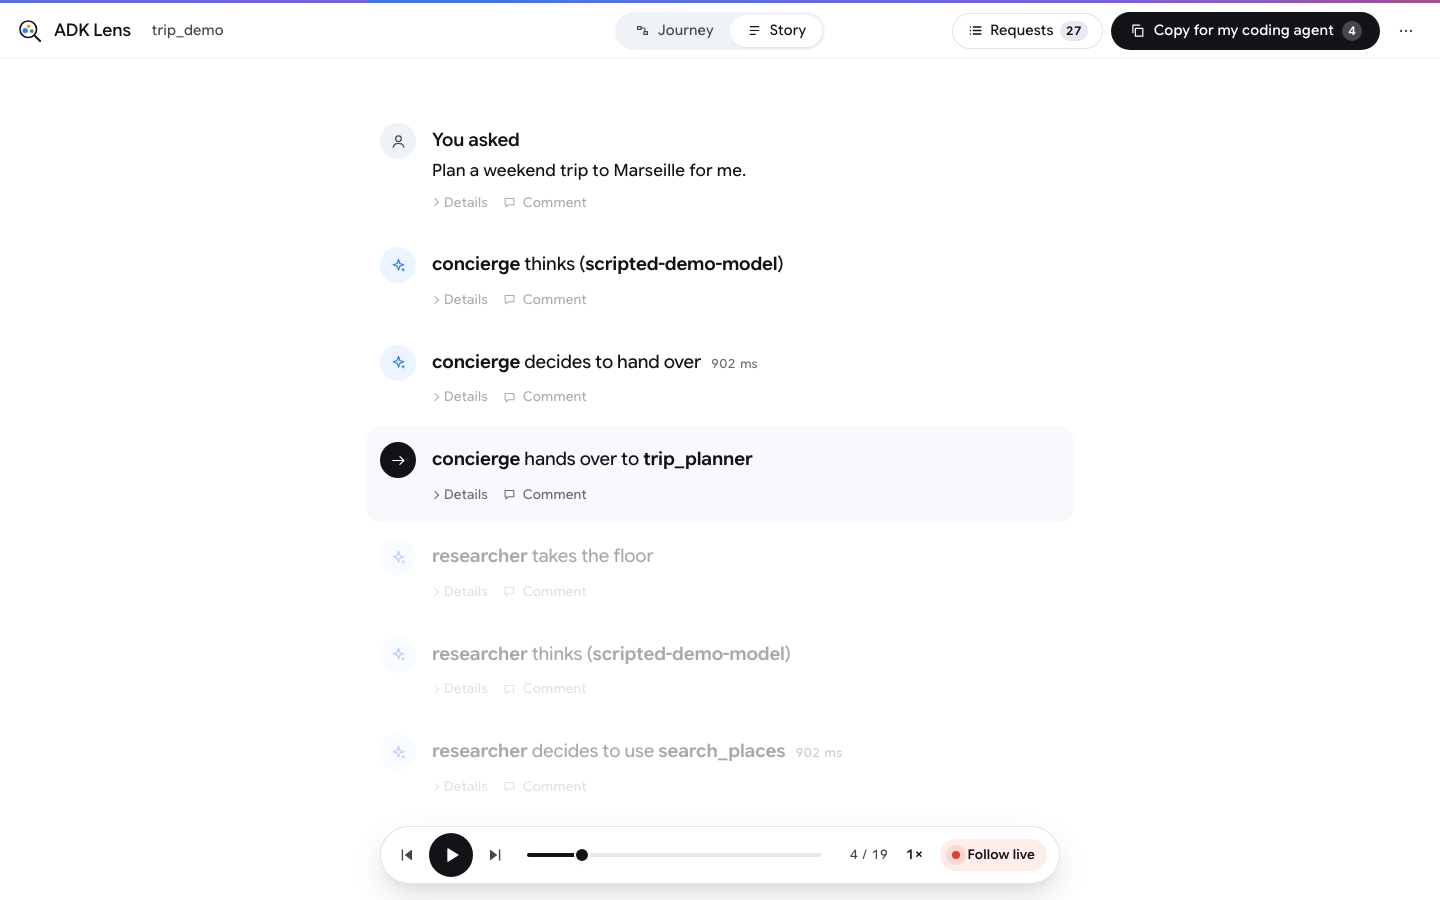
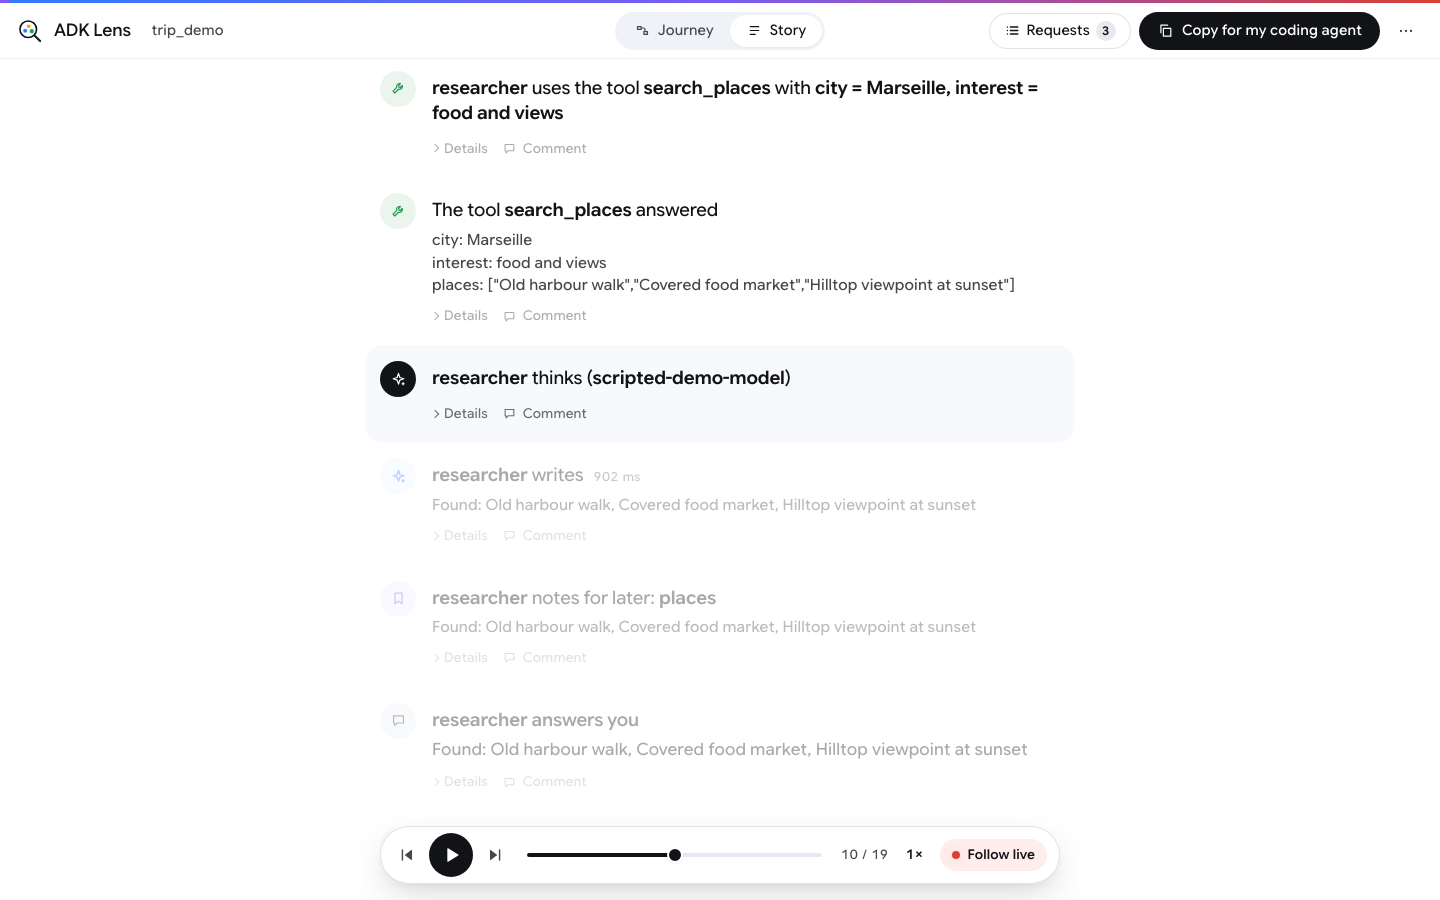
UI: the word box of a mark takes the keyboard and opens above it; site: fresh screenshots

diff --git a/src/adk_lens/static/js/notes.js b/src/adk_lens/static/js/notes.js
@@ -314,7 +314,8 @@ export function createNotes(map, stage, opts) {
       const on = nodeAt(pt);
       // Dropped on a node: it belongs to that node and sits on its corner instead of covering its name.
       const where = on ? { target: { type: 'node', id: on, name: opts.nodeName(on) } } : { x: pt.x - 26, y: pt.y - 26 };
-      add({ type: 'stamp', stamp, kind: stamp, ...where }, 'self');
+      // The word box takes the keyboard at once, so typing never triggers the player's shortcuts.
+      add({ type: 'stamp', stamp, kind: stamp, ...where }, 'field');
     } else add({ type: 'zone', shape: 'ellipse', x: pt.x - 150, y: pt.y - 95, w: 300, h: 190 });
     setTool('select');
   }

diff --git a/src/adk_lens/static/css/app.css b/src/adk_lens/static/css/app.css
@@ -467,6 +467,8 @@ b { font-weight: 600; }
   animation: pop-in 180ms var(--ease) backwards;
 }
 .stamp .note-bar, .zone-label .note-bar { bottom: auto; top: calc(100% + 10px); transform-origin: 50% 0; }
+/* On a node the bar opens above the mark, so it never covers the node's name. */
+.stamp.on-node .note-bar { top: auto; bottom: calc(100% + 10px); transform-origin: 50% 100%; }
 .kind-picker { display: inline-flex; gap: 3px; }
 .kind-chip {
   height: 28px; padding: 0 10px; border-radius: var(--pill); font-size: 13px; color: var(--ink-2); display: inline-flex; align-items: center; gap: 6px;
